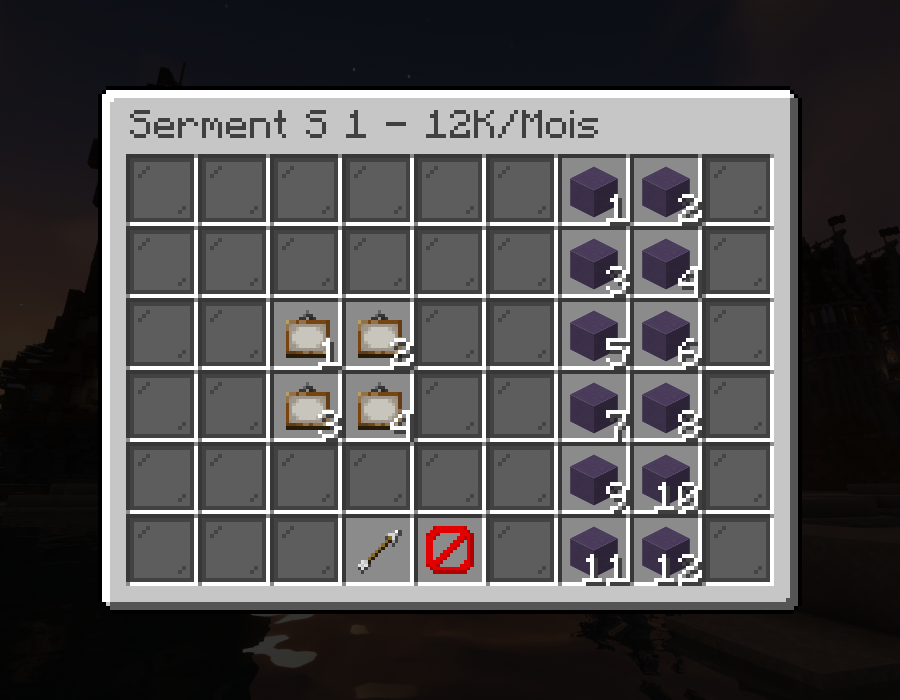
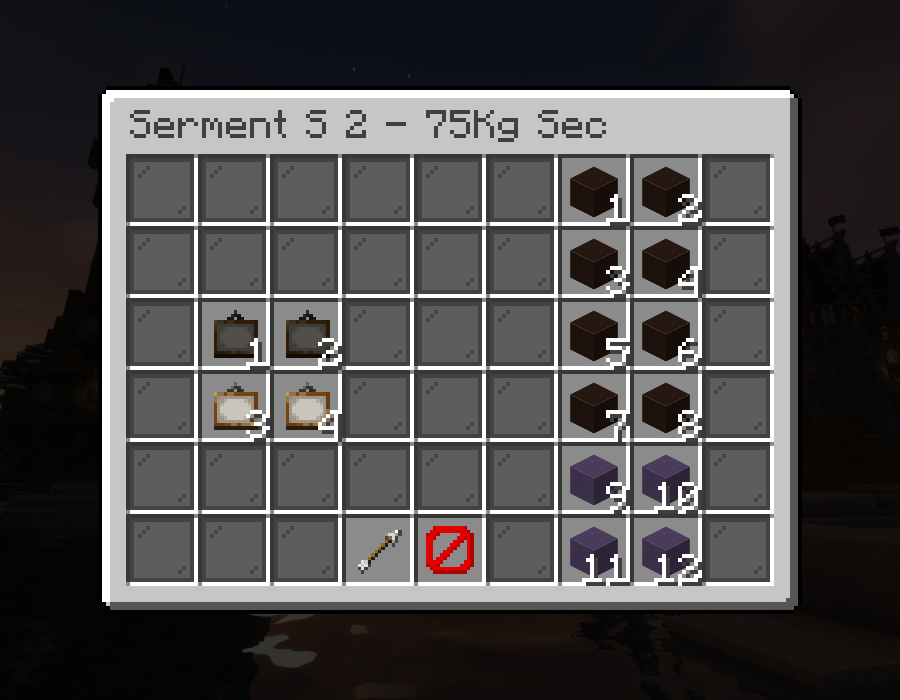
Rounds terminés en terre cuite noire, saisons terminées assombries
Les numéros restent inchangés ; l'overlay indique « Terminé ».

Claude-Session: https://claude.ai/code/session_019gCBZ2Dy19V3W7UiEquzyT

diff --git a/index.html b/index.html
@@ -81,6 +81,7 @@ const ITEM_SCALE = 0.85;   // taille des items (hors vitres) par rapport à la c
 //   tooltip : lignes de l'overlay au survol (1re ligne = nom). Codes couleur Minecraft : §a vert, §7 gris, §e jaune…
 //   open : page ouverte au clic ;  sign : ouvre le panneau de saisie de date (voir DATE_FIELDS)
 //   tooltip peut aussi être une fonction qui renvoie les lignes (contenu dynamique)
+//   look : fonction qui peut changer l'apparence ({ item/block : autre texture, dim : assombri }), sans toucher au numéro
 // Contenu provisoire, à remplacer par les vrais textes.
 const LORE = ['§7Description à venir.', '', '§eClique pour voir !'];
 
@@ -98,24 +99,42 @@ function navSlots(previous) {
 //   numérotés de gauche à droite puis de haut en bas (numéros ajoutés automatiquement, voir numberDuplicates).
 // Une saison = 3 mois, un round = 1 mois, comptés à partir de la date d'entrée (page « Durée des Serments »).
 // Ex. saison 3 = mois 7 à 9 du serment, round 11 = mois 11.
+// Une période est terminée quand on a atteint le jour qui suit sa fin.
+function toDate(date) {
+  const [d, m, y] = date.split('/').map(Number);
+  return new Date(y, m - 1, d);
+}
+function periodDone(lastMonth) {
+  if (!dates.start) return false;
+  const today = new Date();
+  today.setHours(0, 0, 0, 0);
+  return today >= toDate(addMonths(dates.start, lastMonth));
+}
 function periodTooltip(name, firstMonth, lastMonth) {
   return () => {
     const months = firstMonth === lastMonth ? `§8Mois ${firstMonth} du serment` : `§8Mois ${firstMonth} à ${lastMonth} du serment`;
     const period = dates.start
       ? [`§7Du §e${addMonths(dates.start, firstMonth - 1)}`, `§7au §e${dayBefore(addMonths(dates.start, lastMonth))}`]
       : ["§7Dates : §cdate d'entrée non définie"];
-    return [name, ...period, months, '', '§eClique pour voir !'];
+    const status = periodDone(lastMonth) ? ['§cTerminé'] : [];
+    return [name, ...period, months, ...status, '', '§eClique pour voir !'];
   };
 }
 function sermentSlots() {
   const slots = {};
   for (let i = 0; i < 4; i++) {
     const n = i + 1;
-    slots[`${2 + Math.floor(i / 2)},${1 + i % 2}`] = { item: 'painting', tooltip: periodTooltip(`§aSaison ${n}`, 3 * i + 1, 3 * n) };
+    slots[`${2 + Math.floor(i / 2)},${1 + i % 2}`] = {
+      item: 'painting', tooltip: periodTooltip(`§aSaison ${n}`, 3 * i + 1, 3 * n),
+      look: () => periodDone(3 * n) ? { dim: true } : null,   // saison terminée : tableau assombri
+    };
   }
   for (let i = 0; i < 12; i++) {
     const n = i + 1;
-    slots[`${Math.floor(i / 2)},${6 + i % 2}`] = { block: 'blue_terracotta', tooltip: periodTooltip(`§aRound ${n}`, n, n) };
+    slots[`${Math.floor(i / 2)},${6 + i % 2}`] = {
+      block: 'blue_terracotta', tooltip: periodTooltip(`§aRound ${n}`, n, n),
+      look: () => periodDone(n) ? { block: 'black_terracotta' } : null,   // round terminé : terre cuite noire
+    };
   }
   return slots;
 }
@@ -241,7 +260,7 @@ const FILES = [
   'generic_54', 'ascii', 'accented', 'black_stained_glass', 'normal',
   'diamond_sword', 'painting', 'book', 'writable_book', 'clock_00', 'bone',
   'name_tag', 'barrier', 'redstone_torch', 'cookie', 'paper',
-  'arrow', 'blue_terracotta', 'oak', 'button', 'button_highlighted', 'green_dye', 'lime_dye', 'lime_stained_glass', 'yellow_stained_glass', 'red_stained_glass',
+  'arrow', 'blue_terracotta', 'black_terracotta', 'oak', 'button', 'button_highlighted', 'green_dye', 'lime_dye', 'lime_stained_glass', 'yellow_stained_glass', 'red_stained_glass',
   'crafting_table_top', 'crafting_table_front', 'crafting_table_side',
   'barrel_top', 'barrel_side',
 ];
@@ -538,12 +557,15 @@ function renderGui() {
       const slot = currentSlots()[key];
       if (!slot) ctx.drawImage(T.black_stained_glass, px, py, 16 * S, 16 * S);
       else if (slot.pane) ctx.drawImage(T[slot.pane], px, py, 16 * S, 16 * S);
-      else if (slot.item) {
-        const size = 16 * S * ITEM_SCALE, off = (16 * S - size) / 2;
-        ctx.drawImage(T[slot.item], px + off, py + off, size, size);
+      else {
+        const look = { ...slot, ...(slot.look && slot.look()) };
+        if (look.item) {
+          const size = 16 * S * ITEM_SCALE, off = (16 * S - size) / 2;
+          ctx.drawImage(look.dim ? dimmed(T[look.item]) : T[look.item], px + off, py + off, size, size);
+        }
+        else if (look.block) drawCube(ctx, BLOCKS[look.block], px, py, S, (look.block === 'chest' ? 0.9 : 1) * ITEM_SCALE);
+        else if (look.head) drawCube(ctx, HEADS[look.head], px, py, S, 0.85 * ITEM_SCALE);
       }
-      else if (slot.block) drawCube(ctx, BLOCKS[slot.block], px, py, S, (slot.block === 'chest' ? 0.9 : 1) * ITEM_SCALE);
-      else if (slot.head) drawCube(ctx, HEADS[slot.head], px, py, S, 0.85 * ITEM_SCALE);
 
       // Nombre en bas à droite de la case (comme la taille d'une pile en jeu), en blanc avec ombre.
       if (slot && slot.count != null) {
@@ -558,6 +580,22 @@ function renderGui() {
       }
     }
   }
+}
+
+// Version assombrie d'une texture (seuls ses pixels visibles sont foncés), mise en cache.
+const dimCache = new Map();
+function dimmed(img) {
+  let c = dimCache.get(img);
+  if (!c) {
+    let ctx;
+    [c, ctx] = makeCanvas(img.width, img.height);
+    ctx.drawImage(img, 0, 0);
+    ctx.globalCompositeOperation = 'source-atop';
+    ctx.fillStyle = 'rgba(0, 0, 0, 0.6)';
+    ctx.fillRect(0, 0, img.width, img.height);
+    dimCache.set(img, c);
+  }
+  return c;
 }
 
 // Case (ligne, colonne) sous la souris, ou null.
@@ -786,6 +824,7 @@ async function main() {
     crafting_table: { top: T.crafting_table_top, front: T.crafting_table_front, side: T.crafting_table_side },
     barrel: { top: T.barrel_top, front: T.barrel_side, side: T.barrel_side },
     blue_terracotta: { top: T.blue_terracotta, front: T.blue_terracotta, side: T.blue_terracotta },
+    black_terracotta: { top: T.black_terracotta, front: T.black_terracotta, side: T.black_terracotta },
   };
   const page = location.hash.slice(1);
   state.page = PAGES[page] ? page : 'main';
